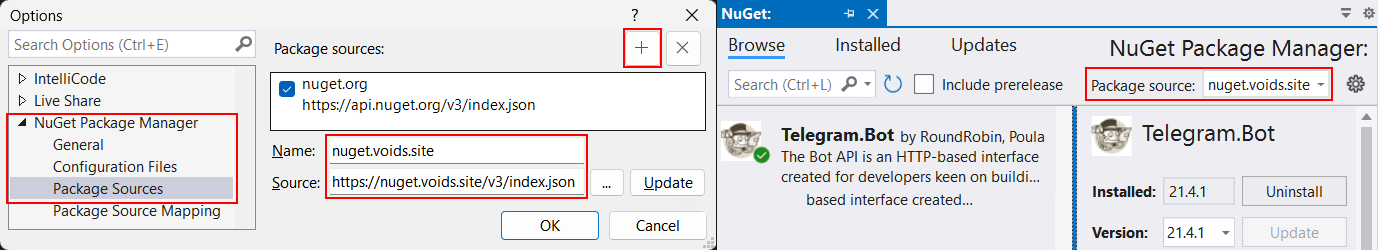
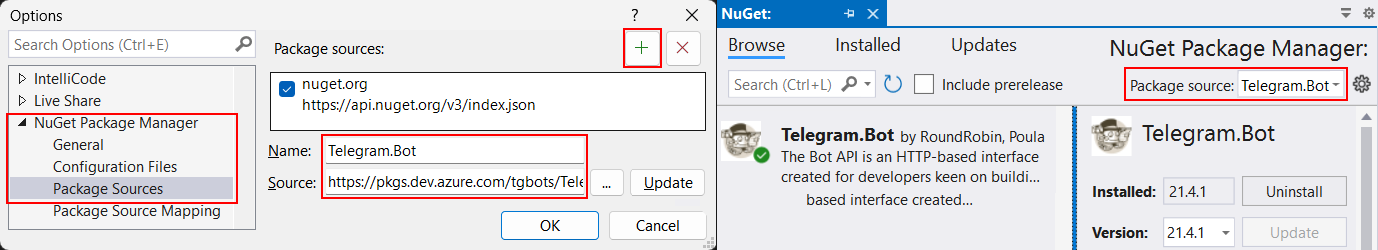
pkgs.dev.azure.com feed

diff --git a/src/README.md b/src/README.md
@@ -1,5 +1,5 @@
 # Telegram Bots Book
-[![NuGet](https://img.shields.io/nuget/dt/Telegram.Bot.svg?style=flat-square)](https://nuget.voids.site/packages/Telegram.Bot)
+[![NuGet](https://img.shields.io/nuget/dt/Telegram.Bot.svg?style=flat-square)](https://dev.azure.com/tgbots/Telegram.Bot/_artifacts/feed/release/NuGet/Telegram.Bot)
 [![Repository](https://img.shields.io/github/stars/TelegramBots/Telegram.Bot.svg?style=social&label=Stars)](https://github.com/TelegramBots/Telegram.Bot)
 
 **[Telegram.Bot](https://github.com/TelegramBots/Telegram.Bot)** is the most popular .NET client for [Telegram Bot API](https://core.telegram.org/bots/api), allowing [developers to build bots](https://core.telegram.org/bots) for [Telegram](https://www.telegram.org) messaging app.
@@ -12,19 +12,23 @@ Begin with our [_Quickstart_](1/quickstart.md), or choose from the Table Of Cont
 > [!IMPORTANT]
 > _Latest versions of the library are not available on Nuget․org due to false-positive malware detection. We are working with Nuget/ESET teams to resolve this issue._
 
-In the mean time, latest versions are available on our [special nuget feed](https://nuget.voids.site/packages/Telegram.Bot): `https://nuget.voids.site/v3/index.json`
+In the mean time, latest versions are available on our [special nuget source](https://dev.azure.com/tgbots/Telegram.Bot/_artifacts/feed/release/NuGet/Telegram.Bot):  
+`https://pkgs.dev.azure.com/tgbots/Telegram.Bot/_packaging/release/nuget/v3/index.json`
 
 See the screenshots below to configure the Package source in Visual Studio:
 ![In Visual Studio](1/docs/NugetPackageManager.png)
 and make sure to follow the [Migration Guide for v21.*](migrate/Version-21.x.md) if you have existing bot code.
 
-Alternatively you can use command line: `dotnet nuget add source https://nuget.voids.site/v3/index.json`  
+Alternatively you can use command line:
+```
+dotnet nuget add source "https://pkgs.dev.azure.com/tgbots/Telegram.Bot/_packaging/release/nuget/v3/index.json" -n Telegram.Bot
+```
 Or set up a `nuget.config` file at the root of your project/solution:
 ```xml
 <configuration>
   <packageSources>
     <add key="nuget.org" value="https://api.nuget.org/v3/index.json" protocolVersion="3" />
-    <add key="nuget.voids.site" value="https://nuget.voids.site/v3/index.json" />
+    <add key="Telegram.Bot" value="https://pkgs.dev.azure.com/tgbots/Telegram.Bot/_packaging/release/nuget/v3/index.json" />
   </packageSources>
 </configuration>
 ```
@@ -41,7 +45,7 @@ This book is filled with ready-to-use snippets of code, but you can also find fu
 
 |Visit our|URL|
 |--|--|
-|Nuget feed|<https://nuget.voids.site/packages/Telegram.Bot>|
+|Nuget feed|<https://dev.azure.com/tgbots/Telegram.Bot/_artifacts/feed/release/NuGet/Telegram.Bot>|
 |Github repo|<https://github.com/TelegramBots/Telegram.Bot>|
 |Examples repo|<https://github.com/TelegramBots/Telegram.Bot.Examples>|
 |Telegram news channel|<https://t.me/tgbots_dotnet>|

diff --git a/src/1/quickstart.md b/src/1/quickstart.md
@@ -24,7 +24,7 @@ Create a new console project for your bot and add a reference to `Telegram.Bot` 
 
 ```bash
 dotnet new console
-dotnet nuget add source https://nuget.voids.site/v3/index.json
+dotnet nuget add source https://pkgs.dev.azure.com/tgbots/Telegram.Bot/_packaging/release/nuget/v3/index.json -n Telegram.Bot
 dotnet add package Telegram.Bot
 ```
 
